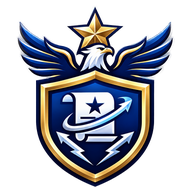
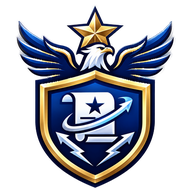
fix: highlight eagle head in notification badge

diff --git a/client/public/sw.js b/client/public/sw.js
@@ -5,6 +5,7 @@ const SHELL = [
   "/icon-192.png",
   "/icon-512.png",
   "/notification-icon.png",
+  "/notification-badge.png",
 ];
 
 self.addEventListener("install", event => {
@@ -62,7 +63,7 @@ self.addEventListener("push", event => {
     self.registration.showNotification(payload.title || "تنبيه برقيات الشرطة", {
       body: payload.body || "لديك إشعار جديد في نظام البرقيات",
       icon: "/notification-icon.png",
-      badge: "/notification-icon.png",
+      badge: "/notification-badge.png",
       dir: "rtl",
       lang: "ar",
       tag: payload.tag || "police-telegram",

diff --git a/client/src/lib/notifications.ts b/client/src/lib/notifications.ts
@@ -70,7 +70,7 @@ export async function showLocalTelegramNotification(input: {
   const options: NotificationOptions = {
     body: `رقم البرقية: ${input.serialCode}\nالموضوع: ${input.subject}`,
     icon: "/notification-icon.png",
-    badge: "/notification-icon.png",
+    badge: "/notification-badge.png",
     tag: `telegram-${input.telegramId}`,
     silent: false,
     dir: "rtl",
